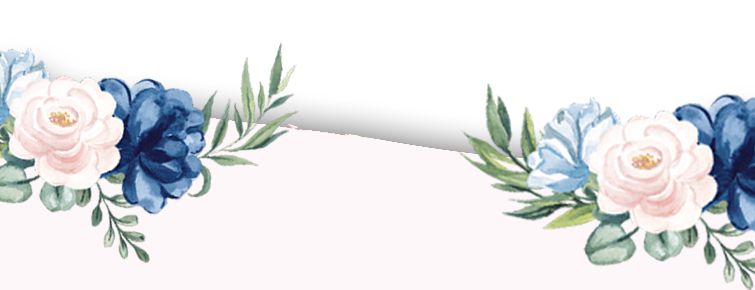
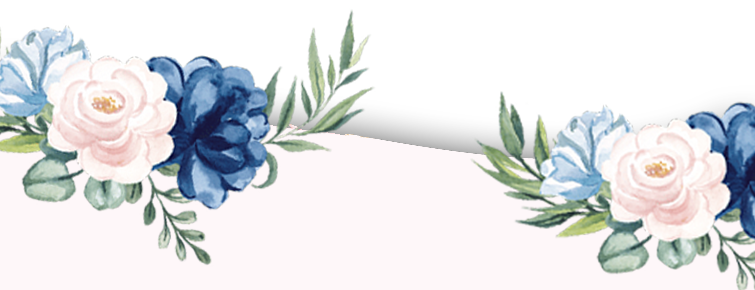
changes

diff --git a/index.html b/index.html
@@ -87,7 +87,7 @@
             <!-- Contenido portada -->
             <div class="portada-container d-flex justify-content-center align-items-center">
                <div class="portada-container-2">
-                  <picture>
+                  <!-- <picture>
                      <source type="image/webp" srcset="https://fixdate.io/modelo-invitacion/74/img/flores_Grupo01_C.webp">
                      <source type="image/png" srcset="https://fixdate.io/modelo-invitacion/74/img/flores_Grupo01_C.png">
                      <img class="adorno adorno-1" data-aos="fade-down" data-aos-delay="300" data-aos-duration="1000" data-aos-once="false" src="https://fixdate.io/modelo-invitacion/74/img/flores_Grupo01_C.png" alt="" loading="lazy">
@@ -101,7 +101,7 @@
                      <source type="image/webp" srcset="https://fixdate.io/modelo-invitacion/74/img/flores_Grupo01_A.webp">
                      <source type="image/png" srcset="https://fixdate.io/modelo-invitacion/74/img/flores_Grupo01_A.png">
                      <img class="adorno adorno-3" data-aos="fade-down" data-aos-delay="500" data-aos-duration="1000" data-aos-once="false" src="https://fixdate.io/modelo-invitacion/74/img/flores_Grupo01_A.png" alt="" loading="lazy">
-                  </picture>
+                  </picture> -->
                   <div class="row d-flex justify-content-center align-items-center">
                      <div class="content-portada text-center">
                         <!-- Idiomas -->
@@ -177,14 +177,14 @@
       <!-- Ceremonia - Fiesta-->
       <section class="ceremonia-fiesta">
          <picture>
-            <source type="image/webp" srcset="https://fixdate.io/modelo-invitacion/74/img/flores_Grupo02_B.webp">
-            <source type="image/png" srcset="https://fixdate.io/modelo-invitacion/74/img/flores_Grupo02_B.png">
-            <img class="adorno adorno-2" data-aos="fade-right" data-aos-delay="400" data-aos-duration="1000" data-aos-once="false" src="https://fixdate.io/modelo-invitacion/74/img/flores_Grupo02_B.png" alt="" loading="lazy">
+            <source type="image/webp" srcset="decoracion/flores_Grupo02_B.webp">
+            <source type="image/png" srcset="decoracion/flores_Grupo02_B.webp">
+            <img class="adorno adorno-2" data-aos="fade-right" data-aos-delay="400" data-aos-duration="1000" data-aos-once="false" src="decoracion/flores_Grupo02_B.webp" alt="" loading="lazy">
          </picture>
          <picture>
-            <source type="image/webp" srcset="https://fixdate.io/modelo-invitacion/74/img/flores_Grupo02_A.webp">
-            <source type="image/png" srcset="https://fixdate.io/modelo-invitacion/74/img/flores_Grupo02_A.png">
-            <img class="adorno adorno-3" data-aos="fade-right" data-aos-delay="500" data-aos-duration="1000" data-aos-once="false" src="https://fixdate.io/modelo-invitacion/74/img/flores_Grupo02_A.png" alt="" loading="lazy">
+            <source type="image/webp" srcset="decoracion/flores_Grupo02_A.webp">
+            <source type="image/png" srcset="decoracion/flores_Grupo02_A.webp">
+            <img class="adorno adorno-3" data-aos="fade-right" data-aos-delay="500" data-aos-duration="1000" data-aos-once="false" src="decoracion/flores_Grupo02_A.webp" alt="" loading="lazy">
          </picture>
          <div class="container">
             <div class="row d-flex justify-content-center">
@@ -342,14 +342,14 @@
       <!-- Regalos-->
       <section class="regalos">
          <picture>
-            <source type="image/webp" srcset="https://fixdate.io/modelo-invitacion/74/img/flores_Grupo02_B.webp">
-            <source type="image/png" srcset="https://fixdate.io/modelo-invitacion/74/img/flores_Grupo02_B.png">
-            <img class="adorno adorno-2" data-aos="fade-right" data-aos-delay="400" data-aos-duration="1000" data-aos-once="false" src="https://fixdate.io/modelo-invitacion/74/img/flores_Grupo02_B.png" alt="" loading="lazy">
+            <source type="image/webp" srcset="decoracion/flores_Grupo02_B.webp">
+            <source type="image/png" srcset="decoracion/flores_Grupo02_B.webp">
+            <img class="adorno adorno-2" data-aos="fade-right" data-aos-delay="400" data-aos-duration="1000" data-aos-once="false" src="decoracion/flores_Grupo02_B.webp" alt="" loading="lazy">
          </picture>
          <picture>
-            <source type="image/webp" srcset="https://fixdate.io/modelo-invitacion/74/img/flores_Grupo02_A.webp">
-            <source type="image/png" srcset="https://fixdate.io/modelo-invitacion/74/img/flores_Grupo02_A.png">
-            <img class="adorno adorno-3" data-aos="fade-right" data-aos-delay="500" data-aos-duration="1000" data-aos-once="false" src="https://fixdate.io/modelo-invitacion/74/img/flores_Grupo02_A.png" alt="" loading="lazy">
+            <source type="image/webp" srcset="decoracion/flores_Grupo02_A.webp">
+            <source type="image/png" srcset="decoracion/flores_Grupo02_A.webp">
+            <img class="adorno adorno-3" data-aos="fade-right" data-aos-delay="500" data-aos-duration="1000" data-aos-once="false" src="decoracion/flores_Grupo02_A.webp" alt="" loading="lazy">
          </picture>
          <div class="container">
             <div class="row text-center d-flex justify-content-center align-items-center">
